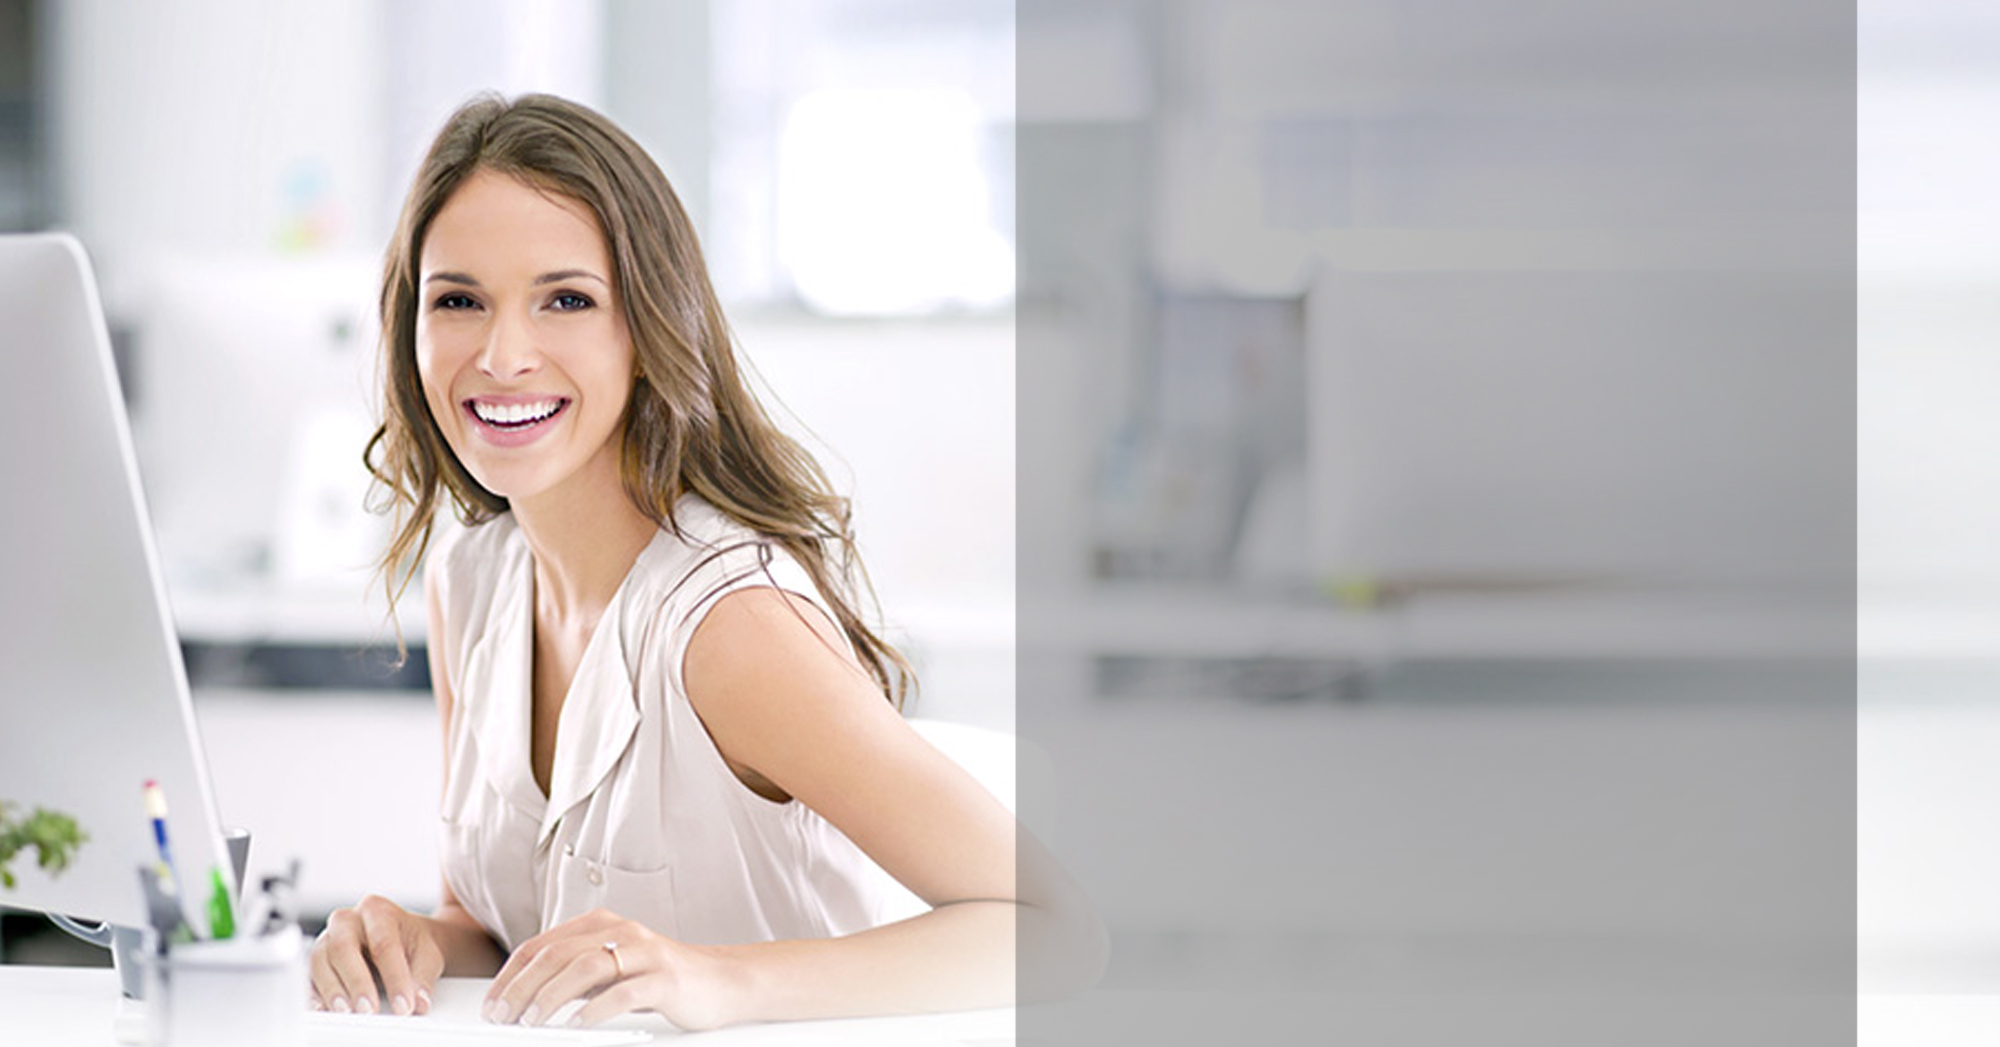
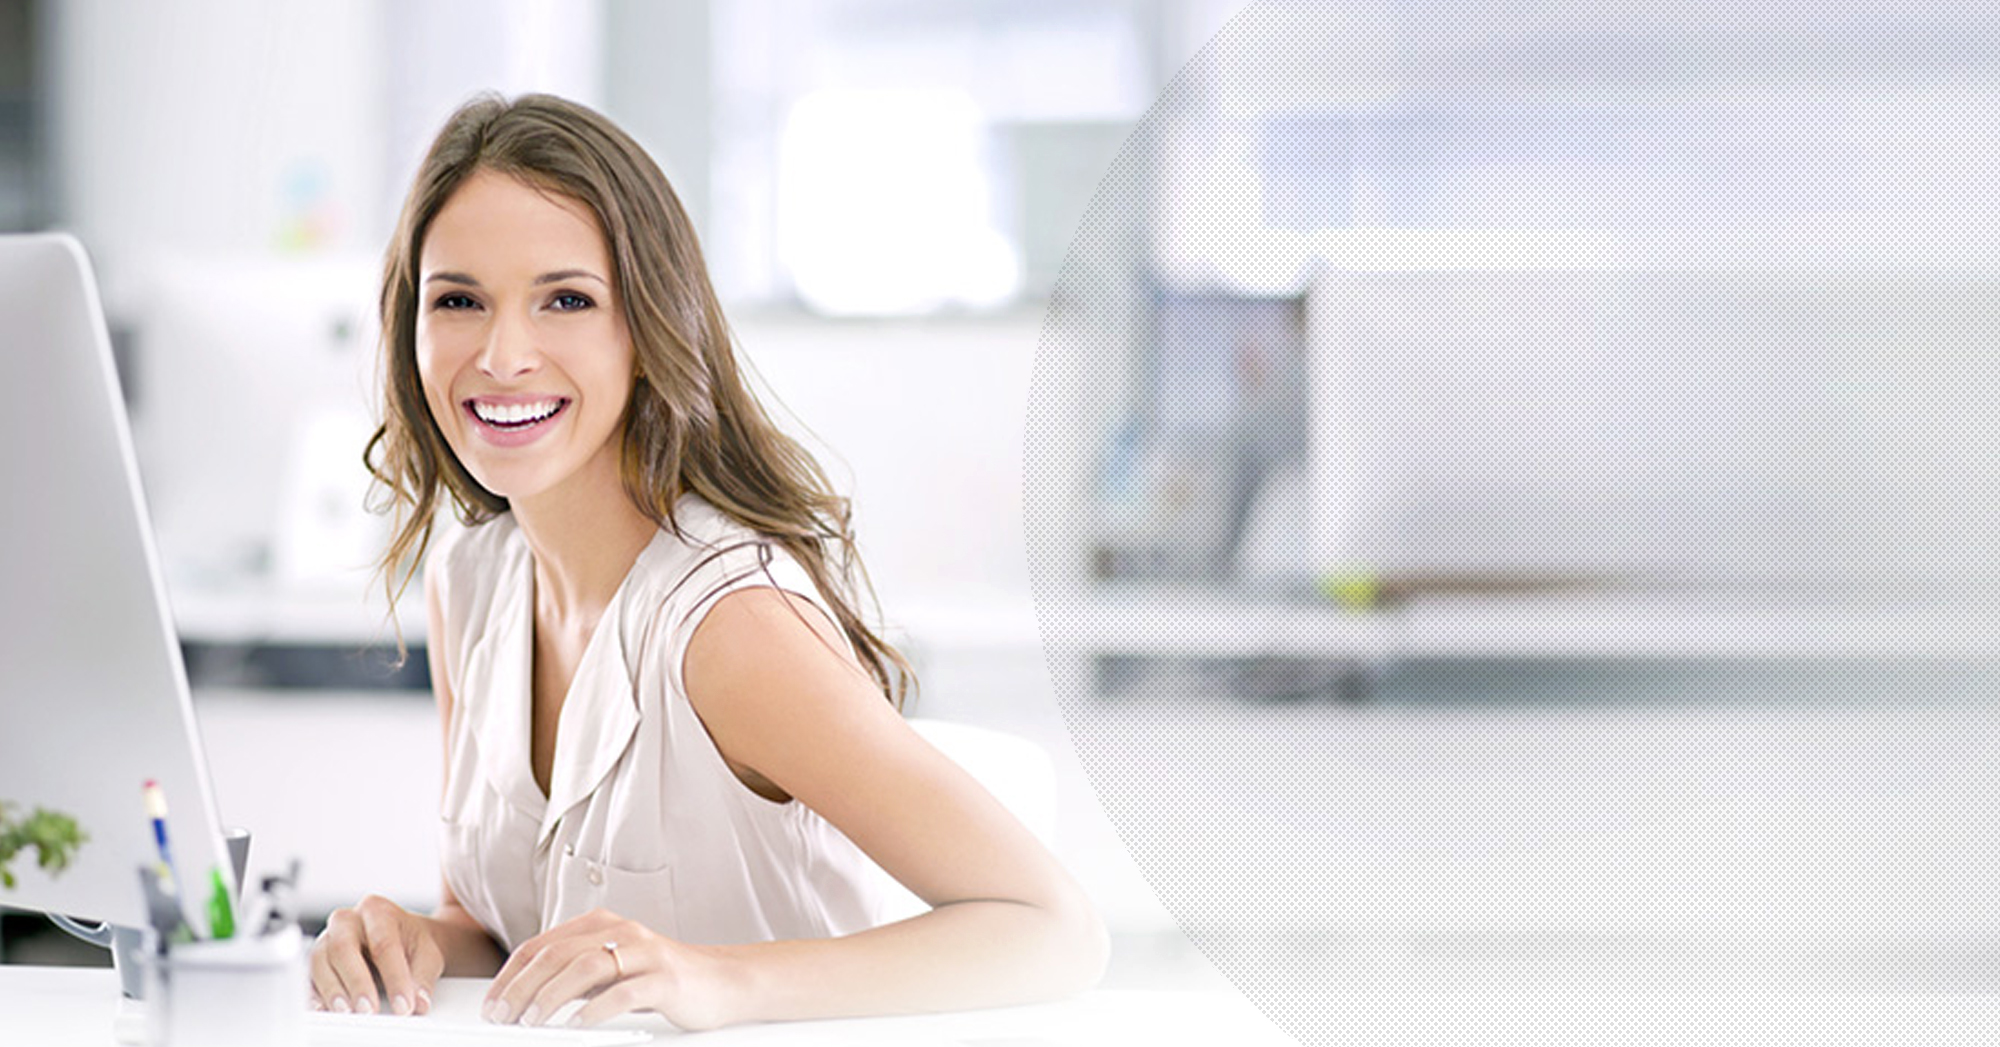
fix baners, bars

diff --git a/Seed/index.html b/Seed/index.html
@@ -18,7 +18,7 @@
 </head>
 
 <body>
-	<div class="bg-top navbar-light">
+	<div class="bg-top navbar-light" style="background-image: url(images/banner.jpg)">
 		<div class="container">
 			<div class="row no-gutters d-flex align-items-center align-items-stretch">
 				<div class="col-md-4 d-flex align-items-center py-4">
@@ -197,7 +197,7 @@
 		</div>
 	</section>
 
-	<section class="ftco-section ftco-no-pt ftc-no-pb">
+	<section class="ftco-section ftco-no-pt ftc-no-pb" style="background-image: url(./images/bgdiv.jpg);">
 		<div class="container">
 			<div class="row d-flex">
 				<div class="col-md-5 order-md-last wrap-about wrap-about d-flex align-items-stretch">
@@ -253,6 +253,17 @@
 									<p style="text-align: center;">Contamos con aulas equipadas en cuanto a tecnología y
 										medios adecuados para que el proceso de enseñanza aprendizaje sea el mejor! Los
 										motivamos para ser los mejores</p>
+								</div>
+							</div>
+						</div>
+						<div class="col-lg-6">
+							<div class="services-2 d-flex">
+								<div class="icon mt-2 d-flex justify-content-center align-items-center"><span
+										class="flaticon-jigsaw"></span></div>
+								<div class="text pl-3">
+									<h3>Sistema Académico</h3>
+									<p>Contamos con Herramientas de apoyo informático que muestra el quehacer del
+										proceso académico del estudiante.</p>
 								</div>
 							</div>
 						</div>
@@ -346,7 +357,7 @@
 			</div>
 		</div>
 	</section>
-	<section class="ftco-section">
+	<section class="ftco-section" >
 		<div class="container-fluid px-4">
 			<div class="row justify-content-center mb-5 pb-2">
 				<div class="col-md-9 text-center heading-section ftco-animate">
@@ -404,7 +415,7 @@
 			</div>
 		</div>
 	</section>
-	<section class="ftco-section; bg-light">
+	<section class="ftco-section; bg-light" >
 		<div class="container-fluid px-4">
 			<div class="row justify-content-center mb-5 pb-2">
 				<div class="col-md-8 text-center heading-section ftco-animate">
@@ -508,7 +519,7 @@
 				<div class="col-md-6 py-5 px-md-5">
 					<div class="py-md-5">
 						<div class="heading-section heading-section-white ftco-animate mb-5">
-							<h2 class="mb-4">Solicita mas Información!</h2>6
+							<h2 class="mb-4">Solicita mas Información!</h2>
 							<p style="text-align: justify;"></p>
 						</div>
 						<form action="#" class="appointment-form ftco-animate">

diff --git a/Seed/admissions.html b/Seed/admissions.html
@@ -11,7 +11,7 @@
     <link rel="stylesheet" href="./css/style.css">
 </head>
 <body>
-	<div class="bg-top navbar-light">
+	<div class="bg-top navbar-light" style="background-image: url(images/banner.jpg)">
 		<div class="container">
 			<div class="row no-gutters d-flex align-items-center align-items-stretch">
 				<div class="col-md-4 d-flex align-items-center py-4">
@@ -105,7 +105,7 @@
 
 
 
-	<section class="hero-wrap hero-wrap-2" style="background-image: url('images/admisiones-1.jpg');">
+	<section class="hero-wrap hero-wrap-2" style="background-image: url('images/bg_3c.jpg');">
         <div class="overlay"></div>
         <div class="container">
             <div class="row no-gutters slider-text align-items-center justify-content-center">

diff --git a/Seed/apply.html b/Seed/apply.html
@@ -12,7 +12,7 @@
 </head>
 
 <body>
-	<div class="bg-top navbar-light">
+	<div class="bg-top navbar-light" style="background-image: url(images/banner.jpg)">
 		<div class="container">
 			<div class="row no-gutters d-flex align-items-center align-items-stretch">
 				<div class="col-md-4 d-flex align-items-center py-4">
@@ -110,7 +110,7 @@
 				<div class="col-md-6 py-5 px-md-5">
 					<div class="py-md-5">
 						<div class="heading-section heading-section-white ftco-animate mb-5">
-							<h2 class="mb-4">Solicita mas Información!</h2>6
+							<h2 class="mb-4">Solicita mas Información!</h2>
 							<p style="text-align: justify;"></p>
 						</div>
 						<form action="#" class="appointment-form ftco-animate">

diff --git a/Seed/contact.html b/Seed/contact.html
@@ -14,7 +14,7 @@
 </head>
 
 <body>
-	<div class="bg-top navbar-light">
+	<div class="bg-top navbar-light" style="background-image: url(images/banner.jpg)" >
 		<div class="container">
 			<div class="row no-gutters d-flex align-items-center align-items-stretch">
 				<div class="col-md-4 d-flex align-items-center py-4">
@@ -104,7 +104,7 @@
 			</div>
 		</div>
 	</nav>
-	<section class="hero-wrap hero-wrap-2" style="background-image: url('images/bg_3.jpg');">
+	<section class="hero-wrap hero-wrap-2" style="background-image: url('images/bg_3c.jpg');">
 		<div class="overlay"></div>
 		<div class="container">
 			<div class="row no-gutters slider-text align-items-center justify-content-center">

diff --git a/Seed/css/style.css b/Seed/css/style.css
@@ -6651,7 +6651,7 @@ button.bg-dark:focus {
 
 .mb-5,
 .my-5 {
-  margin-bottom: 3rem !important; }
+  margin-bottom: 0rem !important; }
 
 .ml-5,
 .mx-5 {
@@ -6708,7 +6708,7 @@ button.bg-dark:focus {
 
 .pb-2,
 .py-2 {
-  padding-bottom: 0.5rem !important; }
+  padding-bottom: 0rem !important; }
 
 .pl-2,
 .px-2 {
@@ -8802,7 +8802,7 @@ h1, h2, h3, h4, h5,
 
 .staff {
   overflow: hidden;
-  margin-bottom: 30px;
+  margin-bottom: 0.5px;
   -moz-transition: all 0.3s ease;
   -o-transition: all 0.3s ease;
   -webkit-transition: all 0.3s ease;

diff --git a/Seed/academic.hschool.html b/Seed/academic.hschool.html
@@ -11,7 +11,7 @@
     <link rel="stylesheet" href="./css/style.css">
 </head>
 <body>
-	<div class="bg-top navbar-light">
+	<div class="bg-top navbar-light" style="background-image: url(images/banner.jpg)">
 		<div class="container">
 			<div class="row no-gutters d-flex align-items-center align-items-stretch">
 				<div class="col-md-4 d-flex align-items-center py-4">

diff --git a/Seed/blog.html b/Seed/blog.html
@@ -11,7 +11,7 @@
     <link rel="stylesheet" href="./css/style.css">
 </head>
 <body>
-	<div class="bg-top navbar-light">
+	<div class="bg-top navbar-light" style="background-image: url(images/banner.jpg)">
 		<div class="container">
 			<div class="row no-gutters d-flex align-items-center align-items-stretch">
 				<div class="col-md-4 d-flex align-items-center py-4">

diff --git a/Seed/about.html b/Seed/about.html
@@ -21,7 +21,7 @@
 </head>
 
 <body>
-    <div class="bg-top navbar-light">
+    <div class="bg-top navbar-light" style="background-image: url(images/banner.jpg)">
         <div class="container">
             <div class="row no-gutters d-flex align-items-center align-items-stretch">
                 <div class="col-md-4 d-flex align-items-center py-4">

diff --git a/Seed/academic.preschool.html b/Seed/academic.preschool.html
@@ -12,7 +12,7 @@
 </head>
 
 <body>
-    <div class="bg-top navbar-light">
+    <div class="bg-top navbar-light" style="background-image: url(images/banner.jpg)">
         <div class="container">
             <div class="row no-gutters d-flex align-items-center align-items-stretch">
                 <div class="col-md-4 d-flex align-items-center py-4">

diff --git a/Seed/academic.primary.html b/Seed/academic.primary.html
@@ -12,7 +12,7 @@
 </head>
 
 <body>
-    <div class="bg-top navbar-light">
+    <div class="bg-top navbar-light" style="background-image: url(images/banner.jpg)">
         <div class="container">
             <div class="row no-gutters d-flex align-items-center align-items-stretch">
                 <div class="col-md-4 d-flex align-items-center py-4">

diff --git a/Seed/campus.html b/Seed/campus.html
@@ -18,7 +18,7 @@
 </head>
 
 <body>
-    <div class="bg-top navbar-light">
+    <div class="bg-top navbar-light" style="background-image: url(images/banner.jpg)">
         <div class="container">
             <div class="row no-gutters d-flex align-items-center align-items-stretch">
                 <div class="col-md-4 d-flex align-items-center py-4">

diff --git a/Seed/gallery.html b/Seed/gallery.html
@@ -21,7 +21,7 @@
 </head>
 
 <body>
-    <div class="bg-top navbar-light">
+    <div class="bg-top navbar-light" style="background-image: url(images/banner.jpg)">
         <div class="container">
             <div class="row no-gutters d-flex align-items-center align-items-stretch">
                 <div class="col-md-4 d-flex align-items-center py-4">
